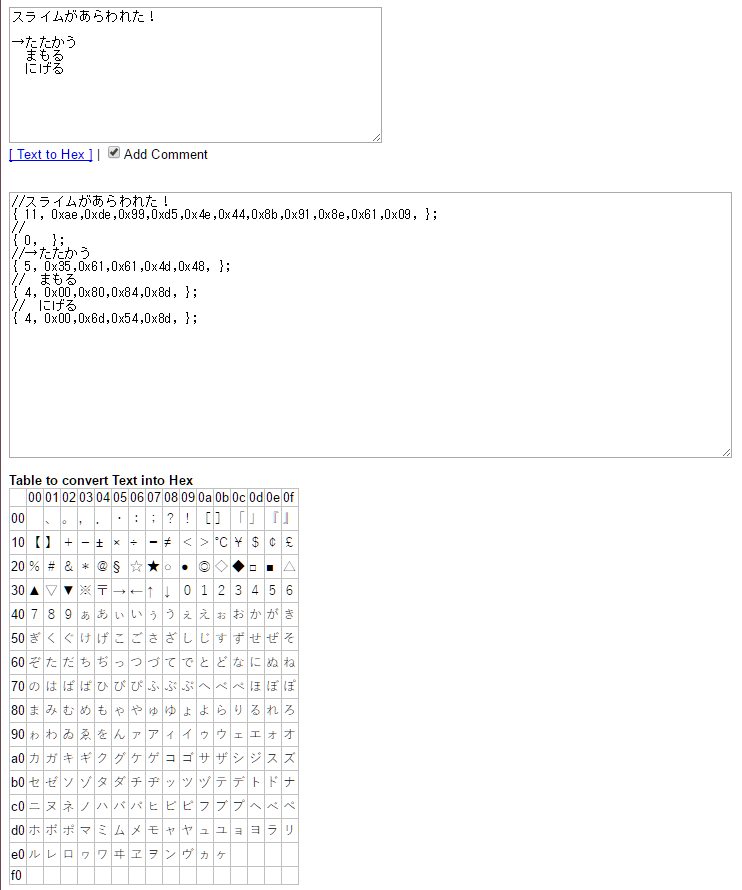
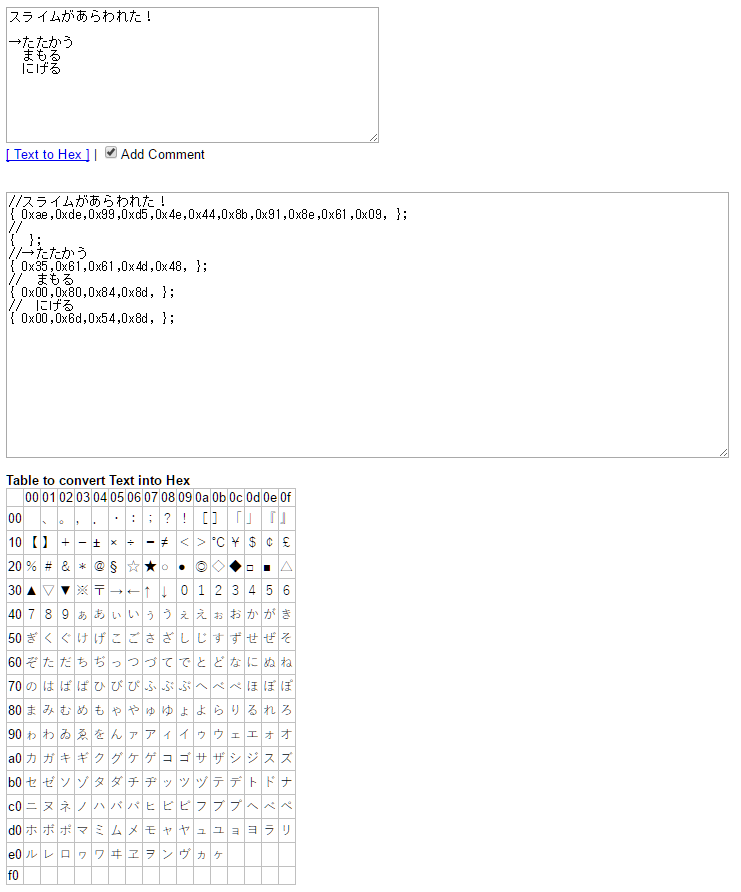
fix data view

diff --git a/convert_text_to_hex/js/main.js b/convert_text_to_hex/js/main.js
@@ -27,7 +27,6 @@ function convert_text_to_hex(){
   var list = '';
   var str = '';
   var hex = '';
-  var cnt = 0;
 
   text += '\n'; 
 
@@ -37,14 +36,12 @@ function convert_text_to_hex(){
       str += row;
 	    var h = char_list.indexOf(row).toString(16);
 	    hex += '0x' + ('00' + h).slice(-2) + ',';    	
-      cnt++;
     }else{
       if(add_comment){
-        list += '//' + str + '\n{ ' + cnt + ', ' + hex + ' };\n';
+        list += '//' + str + '\n{ ' + hex + ' };\n';
       }else{
-        list += '{ ' +cnt + ', ' + hex + ' };\n';
+        list += '{ ' + hex + ' };\n';
       }
-      cnt = 0;
       hex = '';
       str = '';
     }
